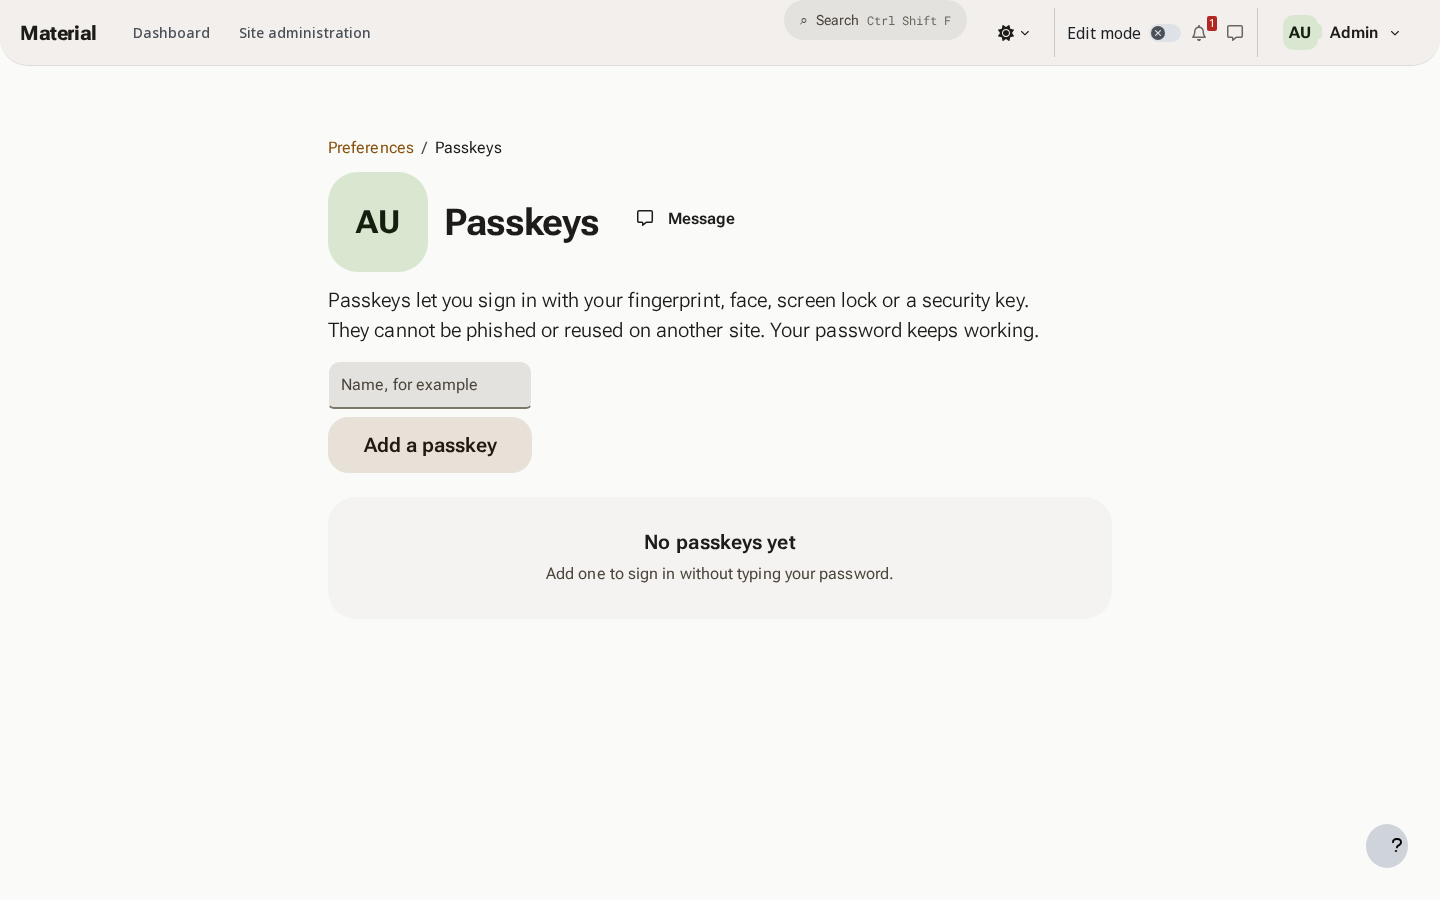
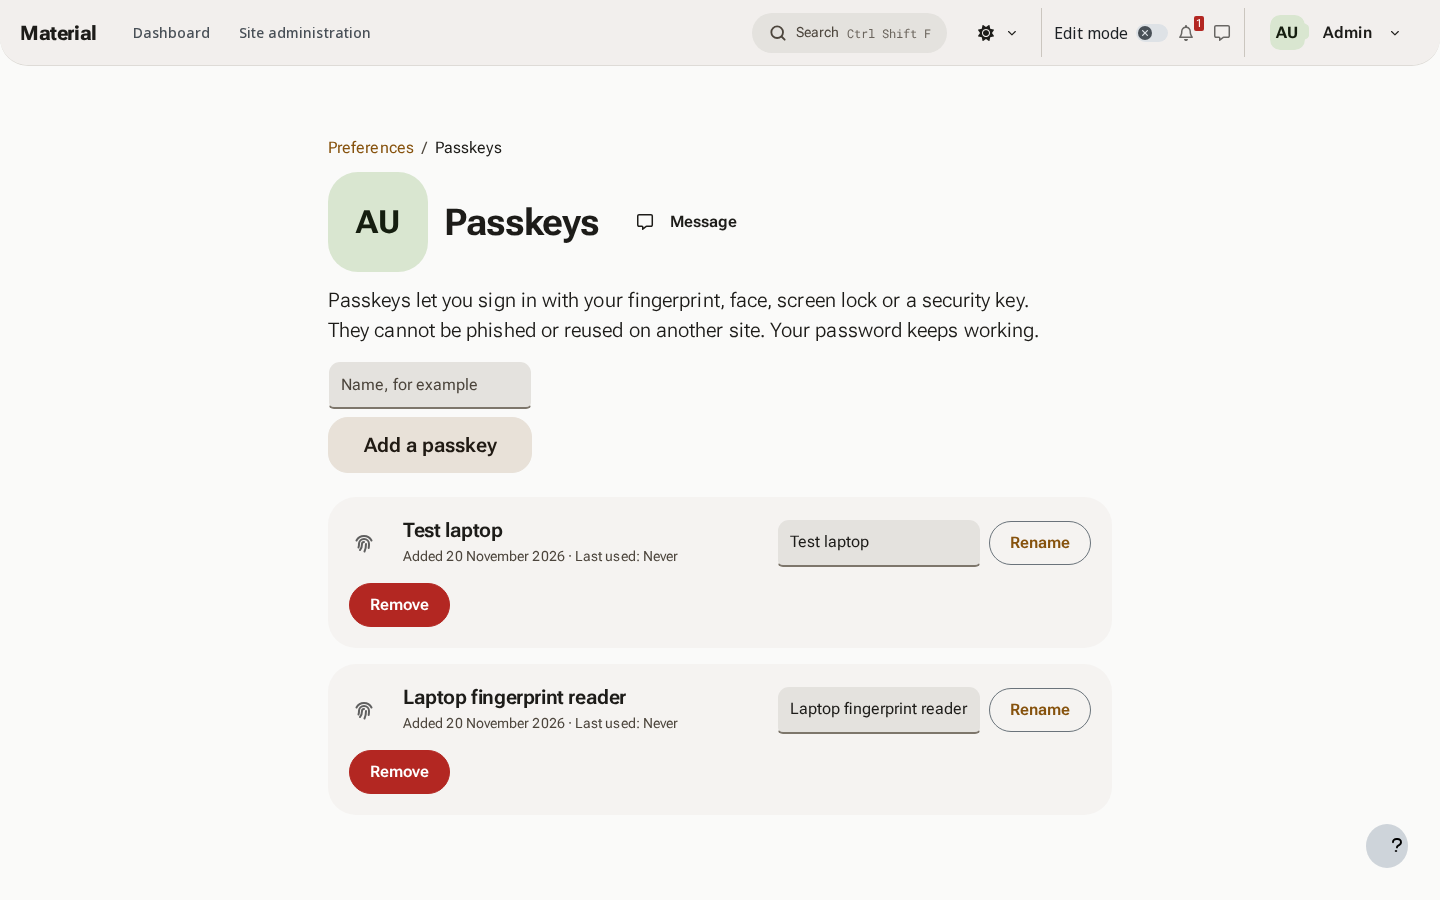
Add end-to-end browser checks, including a full passkey sign-in
The passkey check registers a passkey with a virtual authenticator, signs
out and signs back in with it.

diff --git a/material/tests/e2e/README.md b/material/tests/e2e/README.md
@@ -1,0 +1,11 @@
+# End-to-end checks
+
+Browser checks against a running stack (see `material/docker`). They use Playwright with Chromium.
+
+```sh
+npm i playwright && npx playwright install chromium
+export MOODLE_URL=http://localhost:8080 MOODLE_ADMIN_PASSWORD='your admin password'
+node material/tests/e2e/passkey.mjs       # adds a passkey with a virtual authenticator, signs out, signs in with it
+node material/tests/e2e/onboarding.mjs    # walks the setup wizard
+node material/tests/e2e/screenshots.mjs   # refreshes material/screenshots
+```
